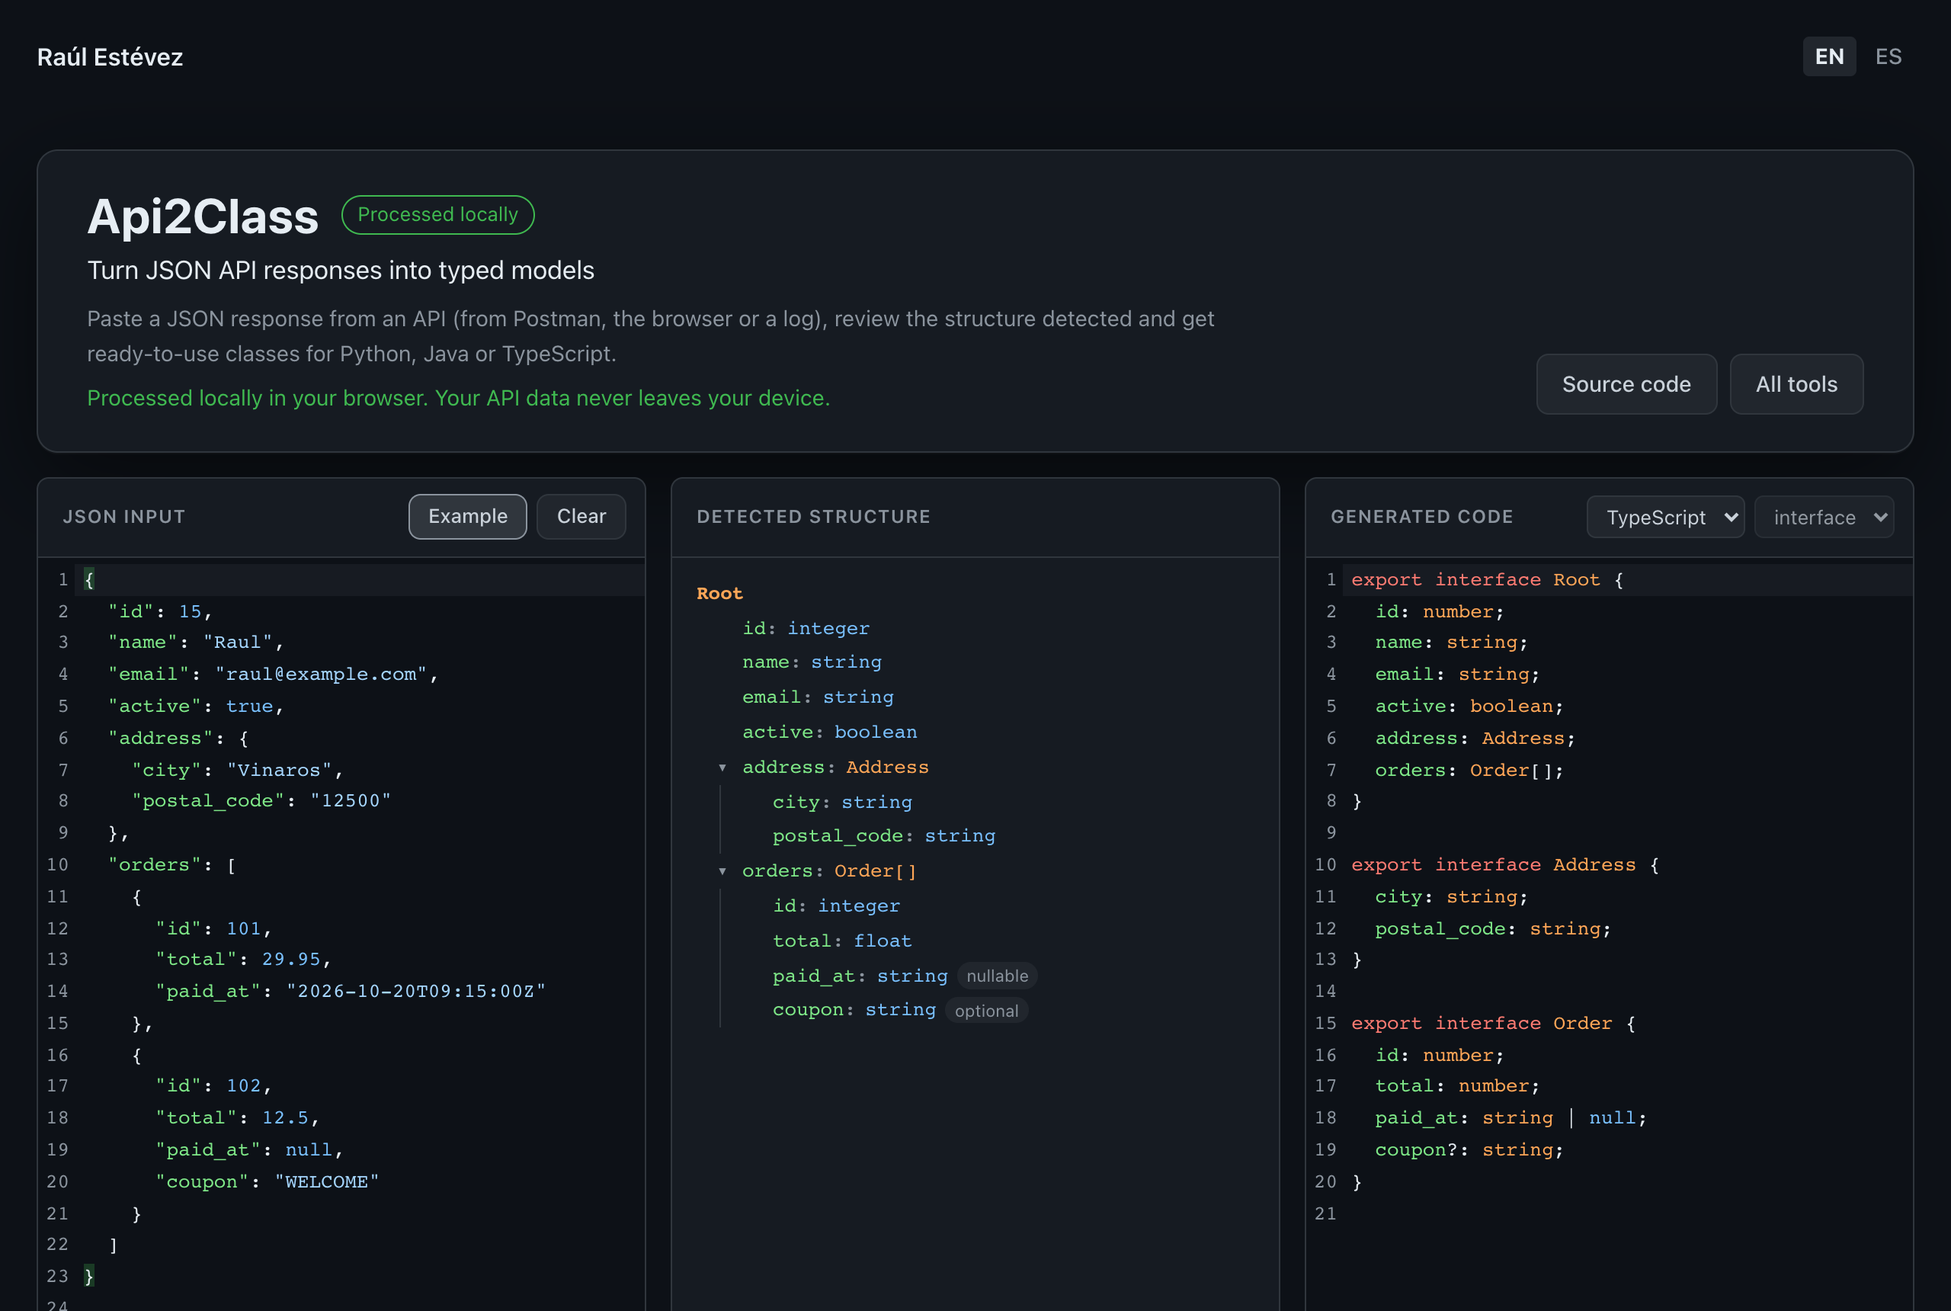
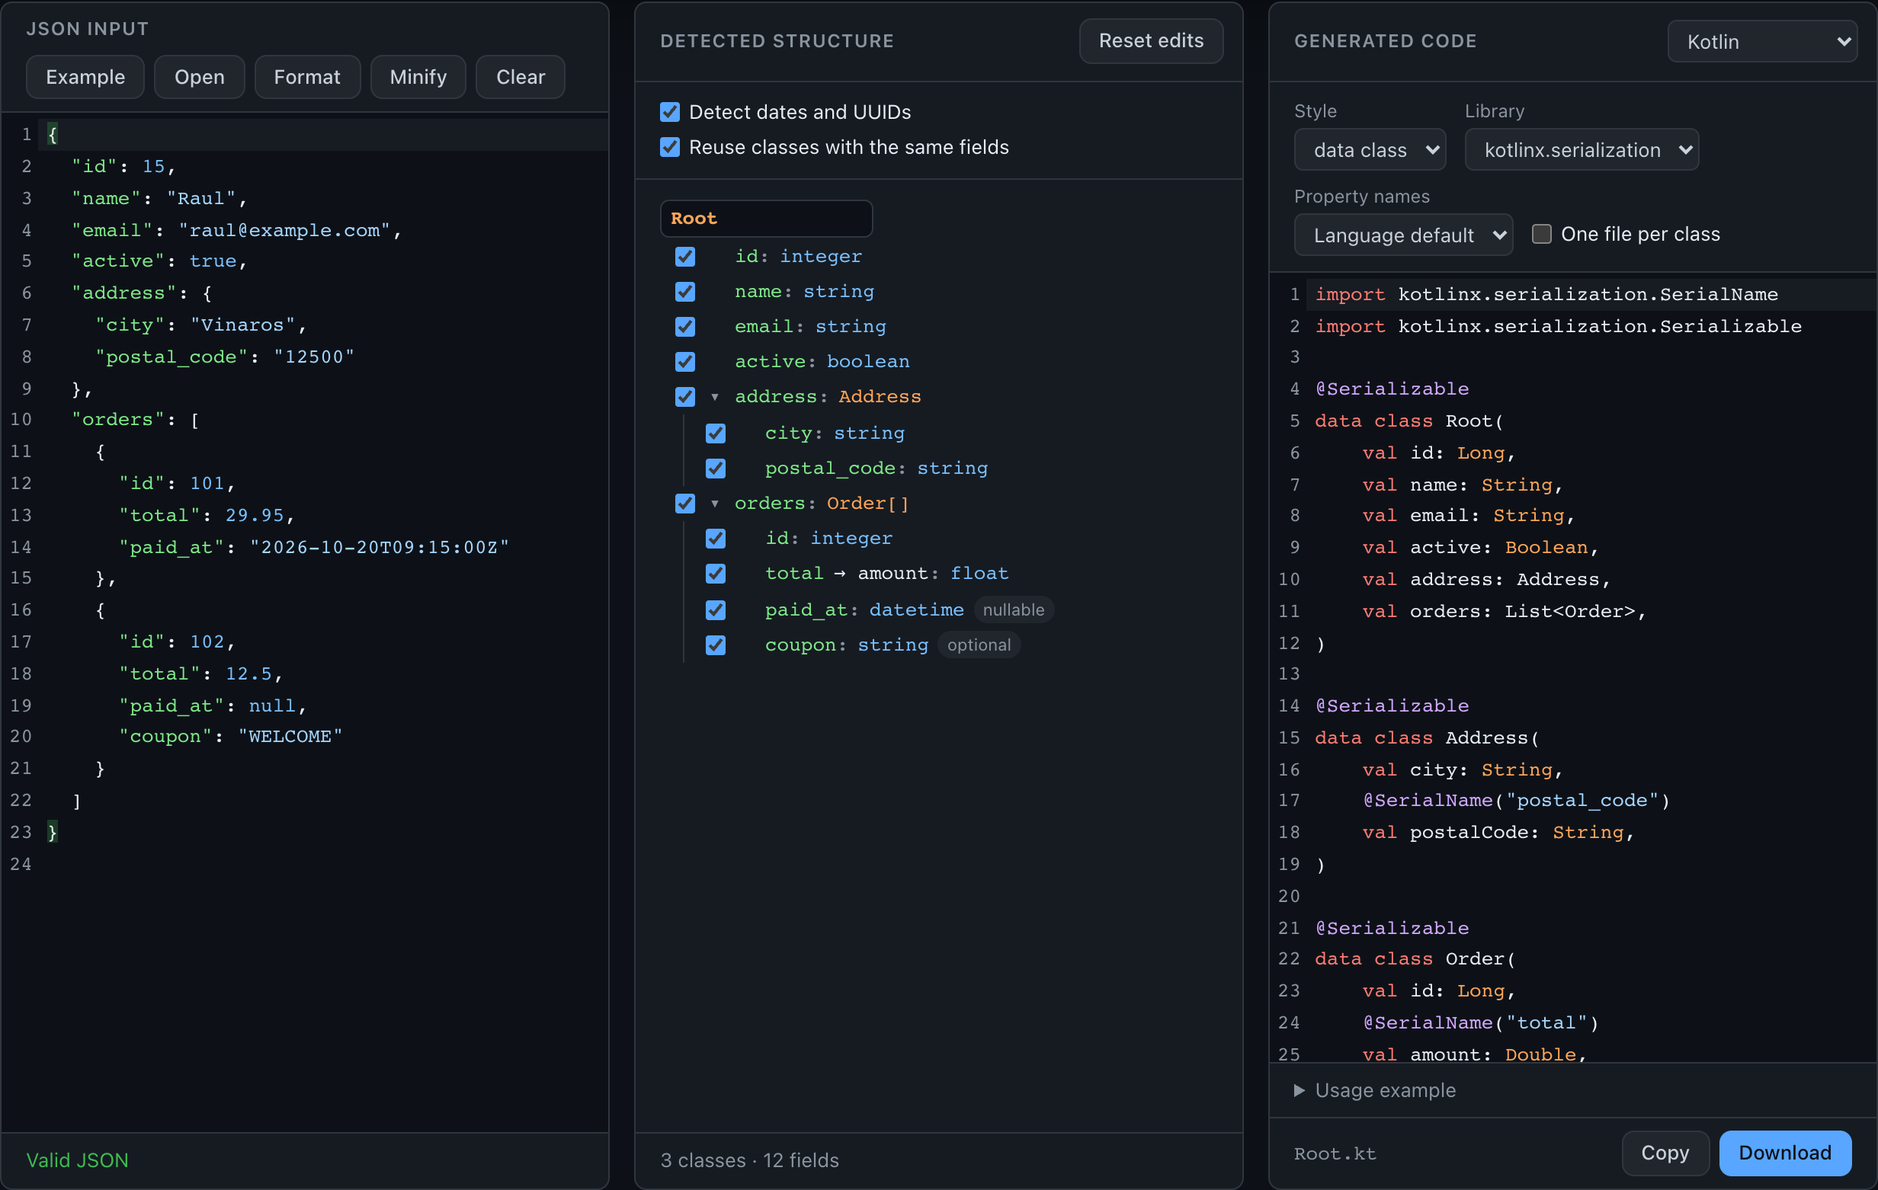
docs: main READMEs cover editing, every language and how the code is checked
Lists the 13 outputs with their styles and libraries, the edits in the
structure tree, the analysis options, the warnings, the themes and
tabs, and which languages were checked with their real tools. New
screenshot with an edited field and Kotlin code.

diff --git a/README_es.md b/README_es.md
@@ -6,7 +6,7 @@ Herramienta que convierte respuestas JSON de APIs en clases y modelos tipados **
 
 <p align="center">
   <a href="https://raulesteveza.github.io/tools/Api2Class/">
-    <img src="docs/images/web_app.png" alt="Versión web de Api2Class convirtiendo una respuesta JSON en interfaces de TypeScript" width="720">
+    <img src="docs/images/web_app.png" alt="Versión web de Api2Class: JSON de entrada, estructura detectada editable y código Kotlin generado" width="720">
   </a>
 </p>
 
@@ -17,7 +17,7 @@ Cuando una aplicación habla con una API, alguien tiene que escribir los modelos
 Api2Class lo hace a partir de una respuesta real:
 
 ```text
-Pegar el JSON  →  Revisar la estructura detectada  →  Elegir lenguaje y estilo  →  Copiar o descargar
+Pegar el JSON  →  Entender la estructura detectada  →  Ajustarla  →  Generar, copiar o descargar
 ```
 
 ```json
@@ -43,15 +43,17 @@ Root
 
 ## Filosofía
 
-- **La estructura va antes que el código.** El modelo detectado se muestra como un árbol, así que se ve qué se ha encontrado antes de usar el código generado.
-- **Los tipos dudosos no se adivinan.** Un campo con valores de tipos distintos queda abierto (`any`) y uno que siempre es `null` se queda en `null`; los dos se marcan para revisarlos.
-- **Los datos no salen del equipo.** No hay servidor: el JSON se analiza en el navegador y el código se genera allí. El JSON pegado no se guarda en ningún sitio, ni siquiera en el navegador.
+- **La estructura va antes que el código.** El modelo detectado se muestra como un árbol y se puede editar, así que se ve qué se ha encontrado y el código dice lo que tú has decidido.
+- **Los tipos dudosos no se adivinan.** Un campo con valores de tipos distintos queda abierto (`any`), uno que siempre es `null` se queda en `null`, y un array u objeto vacío no dice nada de su contenido; todos se marcan para revisarlos, con cuántos valores de cada tipo se han encontrado.
+- **El código generado funciona.** Cada lenguaje y estilo se prueba con entradas reales: el código lee el JSON y lo vuelve a escribir sin cambios (ver [Comportamiento compartido](#comportamiento-compartido)).
+- **Los datos no salen del equipo.** No hay servidor: el JSON se analiza en el navegador y el código se genera allí. Ni el JSON pegado ni las ediciones se guardan en ningún sitio, ni siquiera en el navegador.
 
 ## Qué hace
 
 ### Leer el JSON
 
-- Validación estricta, con la línea y la columna del error y una pista para los fallos habituales al copiar una respuesta: comillas simples, comentarios, comas finales, ceros a la izquierda.
+- Pégalo, abre un archivo `.json` o suéltalo sobre el editor. Se puede formatear y minificar sin cambiar ningún valor.
+- Validación estricta que dice qué se esperaba y dónde: `Línea 3, columna 3 · Se esperaba "," o "}" después de "email"`, con pistas para los fallos habituales al copiar una respuesta (comillas simples, comentarios, comas finales, ceros a la izquierda).
 - Los números conservan cómo estaban escritos, así que `29.0` es un float y `29` un integer.
 
 ### Detectar la estructura
@@ -59,27 +61,45 @@ Root
 | Se detecta | Ejemplo |
 |---|---|
 | Tipos | `string`, `integer`, `float`, `boolean`, `null`, objetos y arrays |
+| Fechas, fechas con hora y UUID (desactivable) | `"1990-05-17"` → `date`, `"2026-10-20T09:15:00Z"` → `datetime` |
 | Objetos anidados | `address: {...}` → clase `Address` |
 | Arrays de objetos, con nombre en singular | `orders: [{...}]` → `Order[]`, `categories` → `Category` |
-| Campos opcionales | Faltan en algunos objetos de un array |
+| Campos opcionales | Faltan en algunos objetos de un array (se analizan todos los elementos, no solo el primero) |
 | Campos nullable | `null` en algunos objetos y un valor en otros |
 | Enteros y decimales mezclados | `float` |
-| Valores de tipos distintos | `any`, marcado para revisar |
+| Valores de tipos distintos | `any`, con recuento: `integer ×2, string ×1` |
+| Objetos con los mismos campos (desactivable) | `billing_address` + `shipping_address` → una sola clase `Address` |
 | Nombres de clase repetidos | `address` dentro de `company` → `CompanyAddress` |
+
+### Ajustarla
+
+En el árbol, cada campo se puede incluir o excluir y editar: nombre de la propiedad, tipo (también un mapa genérico en lugar de una clase), opcional y nullable. Las clases y el modelo raíz se pueden renombrar. Las clases que ya nada usa desaparecen del código, y las ediciones se mantienen aunque cambie el JSON.
+
+Los nombres de las propiedades siguen la convención de cada lenguaje, o la que elijas: camelCase, snake_case, PascalCase o como en el JSON. Cuando un nombre no coincide con su clave JSON, el código lo indica (`@JsonProperty`, `@SerialName`, `CodingKeys`, etiquetas `json:"..."`...). Las palabras reservadas y los nombres no válidos se corrigen y se listan: `class` → `class_`, `2fa` → `field_2fa`.
 
 ### Generar el código
 
-| Lenguaje | Estilo | Detalles |
-|---|---|---|
-| **Python** | dataclass | Campos en snake_case, `list[...]`, `\| None`; los opcionales valen `None` por defecto |
-| **Java** | POJO | Campos privados con getters y setters, `Long` / `Double` / `Boolean`, `List<...>`, `@JsonProperty` de Jackson cuando el nombre no coincide con la clave |
-| **TypeScript** | interface | Claves como en el JSON (entre comillas si hace falta), `?` para opcionales, `\| null` para nullable |
+| Lenguaje | Estilos y librerías |
+|---|---|
+| **Python** | dataclass y clase normal (con `from_dict` / `to_dict`), Pydantic v2 |
+| **Java** | POJO, record, Lombok · Jackson, Gson o sin anotaciones |
+| **TypeScript** | interface, type, Zod 4 |
+| **C#** | class, record · System.Text.Json o Newtonsoft.Json |
+| **Kotlin** | data class · kotlinx.serialization, Gson, Moshi |
+| **Dart** | clase con `fromJson` / `toJson` (y `copyWith`), json_serializable, freezed |
+| **Swift** | structs `Codable` con `CodingKeys` |
+| **Go** | structs con etiquetas `json` |
+| **PHP** | clases readonly de PHP 8.1 con `fromArray` / `toArray` |
+| **Rust** | structs con serde |
+| **Scala 3** | case classes que derivan los codecs de circe |
+| **JSON Schema** | draft 2020-12 |
+| **Smithy** | IDL 2.0 |
 
-Los nombres se adaptan para que sean válidos en cada lenguaje: `class` → `class_`, `2fa` → `_2fa`, `Postal Code` → `postal_code` / `postalCode`. El código se puede copiar o descargar como archivo (`root.py`, `Root.java`, `Root.ts`).
+Cada lenguaje incluye un ejemplo de uso. El código se puede copiar, descargar como archivo o, con un archivo por clase, como `.zip`.
 
-### Próximamente
+### Interfaz
 
-Editar el modelo antes de generar (renombrar clases y campos, cambiar tipos, marcar campos como opcionales, excluir campos), más estilos (Pydantic, records de Java, types de TypeScript), C#, Dart y Kotlin, y la versión de escritorio.
+Tres paneles (JSON, estructura, código) que pasan a ser pestañas en pantallas estrechas, tema oscuro, claro o del sistema, e inglés o castellano.
 
 ## Versiones
 
@@ -92,13 +112,15 @@ Editar el modelo antes de generar (renombrar clases y campos, cambiar tipos, mar
 
 ## Comportamiento compartido
 
-Las dos versiones se escribirán por separado (TypeScript y Python), pero **tienen que comportarse igual**: la carpeta [`shared/`](./shared/README.md) contiene los casos de prueba que definen qué debe hacer cada parte, desde la validación del JSON hasta el código exacto que se genera en cada lenguaje. Los tests de la web ya los leen; los del escritorio leerán los mismos archivos.
+Las dos versiones se escribirán por separado (TypeScript y Python), pero **tienen que comportarse igual**: la carpeta [`shared/`](./shared/README.md) contiene los casos de prueba que definen qué debe hacer cada parte, desde la validación del JSON y el análisis hasta las ediciones y el código exacto que se genera en cada lenguaje y estilo. Los tests de la web ya los leen; los del escritorio leerán los mismos archivos.
+
+El código esperado se comprueba con las herramientas reales: Python (con Pydantic), Java (con Jackson, Gson y Lombok), Dart, Swift, PHP y Rust (con serde) leen cada JSON de ejemplo y lo vuelven a escribir sin cambios, TypeScript pasa `tsc --strict`, Zod acepta cada entrada y los JSON Schema la validan. C#, Kotlin, Go y Scala siguen el comportamiento documentado de cada lenguaje, pero todavía no se han compilado.
 
 ## Estructura del repositorio
 
 ```
 web/                     Versión web (React + TypeScript + Vite)
-  src/core/              Lógica sin interfaz: parser JSON, análisis, modelo, nombres, generadores
+  src/core/              Lógica sin interfaz: parser JSON, análisis, modelo, ediciones, nombres, avisos
   src/core/generators/   Una carpeta por lenguaje
   src/components/        Interfaz React
 shared/                  Comportamiento común a ambas versiones

diff --git a/README_en.md b/README_en.md
@@ -6,7 +6,7 @@ Tool that turns JSON API responses into classes and typed models **without sendi
 
 <p align="center">
   <a href="https://raulesteveza.github.io/tools/Api2Class/">
-    <img src="docs/images/web_app.png" alt="Api2Class web version turning a JSON response into TypeScript interfaces" width="720">
+    <img src="docs/images/web_app.png" alt="Api2Class web version: JSON input, editable detected structure and generated Kotlin code" width="720">
   </a>
 </p>
 
@@ -17,7 +17,7 @@ When an application talks to an API, someone has to write the models that match 
 Api2Class does it from a real response:
 
 ```text
-Paste the JSON  →  Review the structure detected  →  Choose language and style  →  Copy or download
+Paste the JSON  →  Understand the structure detected  →  Customize it  →  Generate, copy or download
 ```
 
 ```json
@@ -43,15 +43,17 @@ Root
 
 ## Philosophy
 
-- **The structure comes before the code.** The detected model is shown as a tree, so it is clear what was found before using the generated code.
-- **Doubtful types are not guessed.** A field with values of different types is left open (`any`) and one that is only ever `null` stays `null`; both are flagged for review.
-- **Data never leaves the device.** There is no server: the JSON is analyzed in the browser and the code is generated there. The pasted JSON is not saved anywhere, not even in the browser.
+- **The structure comes before the code.** The detected model is shown as a tree and can be edited, so it is clear what was found and the code says what you decided.
+- **Doubtful types are not guessed.** A field with values of different types is left open (`any`), one that is only ever `null` stays `null`, and an empty array or object says nothing about its contents; all of them are flagged for review, with how many values of each type were found.
+- **The generated code works.** Every language and style is tested with real inputs: the code reads the JSON and writes it back unchanged (see [Shared behavior](#shared-behavior)).
+- **Data never leaves the device.** There is no server: the JSON is analyzed in the browser and the code is generated there. The pasted JSON and the edits are not saved anywhere, not even in the browser.
 
 ## What it does
 
 ### Read the JSON
 
-- Strict validation, with the line and column of the error and a hint for the usual mistakes when copying a response: single quotes, comments, trailing commas, leading zeros.
+- Paste it, open a `.json` file or drop it on the editor. Format and minify it without changing any value.
+- Strict validation that says what was expected and where: `Line 3, column 3 · Expected "," or "}" after "email"`, with hints for the usual mistakes when copying a response (single quotes, comments, trailing commas, leading zeros).
 - Numbers keep how they were written, so `29.0` is a float and `29` an integer.
 
 ### Detect the structure
@@ -59,27 +61,45 @@ Root
 | Detected | Example |
 |---|---|
 | Types | `string`, `integer`, `float`, `boolean`, `null`, objects and arrays |
+| Dates, date-times and UUIDs (can be turned off) | `"1990-05-17"` → `date`, `"2026-10-20T09:15:00Z"` → `datetime` |
 | Nested objects | `address: {...}` → class `Address` |
 | Arrays of objects, named in singular | `orders: [{...}]` → `Order[]`, `categories` → `Category` |
-| Optional fields | Missing in some objects of an array |
+| Optional fields | Missing in some objects of an array (every item is analyzed, not only the first) |
 | Nullable fields | `null` in some objects and a value in others |
 | Integers and floats mixed | `float` |
-| Values of different types | `any`, flagged for review |
+| Values of different types | `any`, with counts: `integer ×2, string ×1` |
+| Objects with the same fields (can be turned off) | `billing_address` + `shipping_address` → one `Address` class |
 | Repeated class names | `address` inside `company` → `CompanyAddress` |
+
+### Customize it
+
+In the tree, every field can be included or excluded, and edited: property name, type (including a generic map instead of a class), optional and nullable. Classes and the root model can be renamed. Classes that nothing uses any more disappear from the code, and edits are kept while the JSON changes.
+
+Property names follow each language's convention, or the one you choose: camelCase, snake_case, PascalCase or as in the JSON. When a name differs from its JSON key, the code maps it (`@JsonProperty`, `@SerialName`, `CodingKeys`, `json:"..."` tags...). Reserved words and invalid names are fixed and listed: `class` → `class_`, `2fa` → `field_2fa`.
 
 ### Generate the code
 
-| Language | Style | Details |
-|---|---|---|
-| **Python** | dataclass | snake_case fields, `list[...]`, `\| None`; optional fields default to `None` |
-| **Java** | POJO | Private fields with getters and setters, `Long` / `Double` / `Boolean`, `List<...>`, Jackson `@JsonProperty` when the name differs from the key |
-| **TypeScript** | interface | Keys as in the JSON (quoted when needed), `?` for optional, `\| null` for nullable |
+| Language | Styles and libraries |
+|---|---|
+| **Python** | dataclass and plain class (with `from_dict` / `to_dict`), Pydantic v2 |
+| **Java** | POJO, record, Lombok · Jackson, Gson or no annotations |
+| **TypeScript** | interface, type, Zod 4 |
+| **C#** | class, record · System.Text.Json or Newtonsoft.Json |
+| **Kotlin** | data class · kotlinx.serialization, Gson, Moshi |
+| **Dart** | class with `fromJson` / `toJson` (and `copyWith`), json_serializable, freezed |
+| **Swift** | `Codable` structs with `CodingKeys` |
+| **Go** | structs with `json` tags |
+| **PHP** | PHP 8.1 readonly classes with `fromArray` / `toArray` |
+| **Rust** | structs with serde |
+| **Scala 3** | case classes deriving circe codecs |
+| **JSON Schema** | draft 2020-12 |
+| **Smithy** | IDL 2.0 |
 
-Names are made valid for each language: `class` → `class_`, `2fa` → `_2fa`, `Postal Code` → `postal_code` / `postalCode`. The code can be copied or downloaded as a file (`root.py`, `Root.java`, `Root.ts`).
+Every language comes with a usage example. The code can be copied, downloaded as a file or, with one file per class, as a `.zip`.
 
-### Coming next
+### Interface
 
-Editing the model before generating (renaming classes and fields, changing types, marking fields optional, excluding fields), more styles (Pydantic, Java records, TypeScript types), C#, Dart and Kotlin, and the desktop version.
+Three panes (JSON, structure, code) that become tabs on narrow screens, dark, light or system theme, and English or Spanish.
 
 ## Versions
 
@@ -92,13 +112,15 @@ Editing the model before generating (renaming classes and fields, changing types
 
 ## Shared behavior
 
-The two versions will be written separately (TypeScript and Python), but **they must behave the same**: the [`shared/`](./shared/README.md) folder contains the test cases that define what each part must do, from JSON validation to the exact code generated for each language. The web tests already read them; the desktop tests will read the same files.
+The two versions will be written separately (TypeScript and Python), but **they must behave the same**: the [`shared/`](./shared/README.md) folder contains the test cases that define what each part must do, from JSON validation and analysis to edits and the exact code generated for each language and style. The web tests already read them; the desktop tests will read the same files.
+
+The expected code is checked with the real tools: Python (with Pydantic), Java (with Jackson, Gson and Lombok), Dart, Swift, PHP and Rust (with serde) read each sample JSON and write it back unchanged, TypeScript passes `tsc --strict`, Zod accepts each input and the JSON Schemas validate it. C#, Kotlin, Go and Scala follow each language's documented behavior but have not been compiled yet.
 
 ## Repository structure
 
 ```
 web/                     Web version (React + TypeScript + Vite)
-  src/core/              Logic without UI: JSON parser, analysis, model, names, generators
+  src/core/              Logic without UI: JSON parser, analysis, model, edits, names, warnings
   src/core/generators/   One folder per language
   src/components/        React interface
 shared/                  Behavior common to both versions

diff --git a/README.md b/README.md
@@ -1,6 +1,6 @@
 # Api2Class
 
-Client-side tool that turns JSON API responses into classes and typed models for several programming languages, **without sending the JSON to a server**.
+Client-side tool that turns JSON API responses into classes and typed models for 11 programming languages, JSON Schema and Smithy, **without sending the JSON to a server**.
 
 **Try it online:** [raulesteveza.github.io/tools/Api2Class](https://raulesteveza.github.io/tools/Api2Class/)
 
@@ -9,15 +9,15 @@ Client-side tool that turns JSON API responses into classes and typed models for
 
 <p align="center">
   <a href="https://raulesteveza.github.io/tools/Api2Class/">
-    <img src="docs/images/web_app.png" alt="Api2Class web version turning a JSON response into TypeScript interfaces" width="720">
+    <img src="docs/images/web_app.png" alt="Api2Class web version: JSON input, editable detected structure and generated Kotlin code" width="720">
   </a>
 </p>
 
 ## What is this repository?
 
-Api2Class helps developers write the models for the JSON an API returns: paste a response (from Postman, the browser or a log), review the structure detected, and copy or download the classes for Python, Java or TypeScript.
+Api2Class helps developers write the models for the JSON an API returns: paste a response (from Postman, the browser or a log), review and edit the structure detected, and copy or download the classes for Python, Java, TypeScript, C#, Kotlin, Dart, Swift, Go, PHP, Rust or Scala, or a JSON Schema or Smithy definition.
 
-It is not just a JSON → code converter: between the JSON and the code there is a model that shows what was detected (which fields are optional, which can be null, which types are doubtful), so the result can be checked before it is used.
+It is not just a JSON → code converter: between the JSON and the code there is an editable model that shows what was detected (which fields are optional, which can be null, which types are doubtful) and lets you rename, retype or exclude anything before generating.
 
 The repository contains two versions of the same tool:
 
